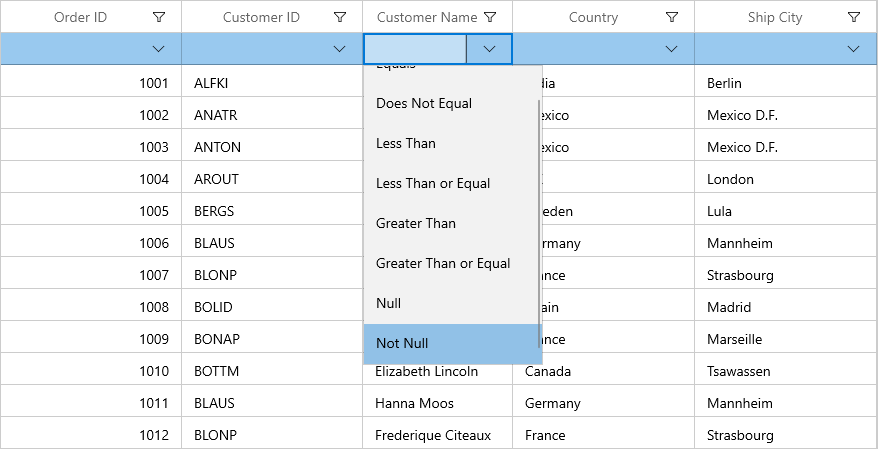
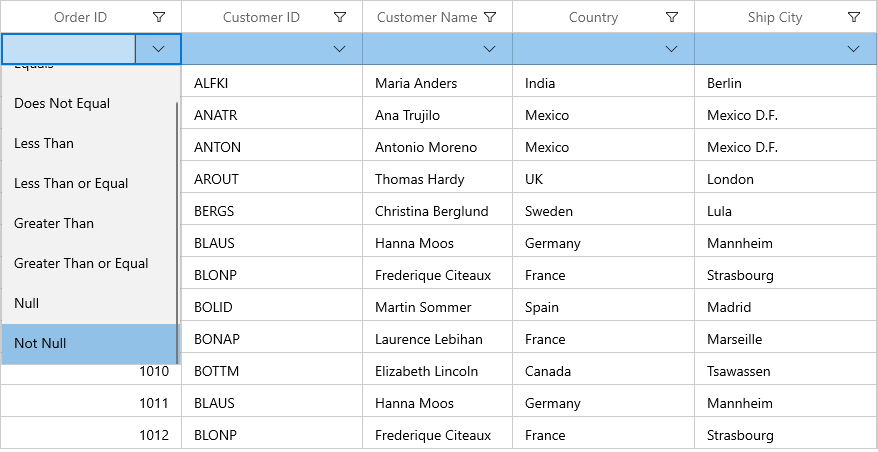
addressed the review concerns

diff --git a/winui/DataGrid/FilterRow.md b/winui/DataGrid/FilterRow.md
@@ -51,17 +51,6 @@ bool isFilterRowIndex = this.sfDataGrid.IsFilterRowIndex(1);
 ## Built-in Editors
 
 By default, FilterRow loads the editors based on underlying property type to filter the data easily. You can change the default editors by using [GridColumn.FilterRowEditorType](https://help.syncfusion.com/cr/winui/Syncfusion.UI.Xaml.DataGrid.GridColumn.html#Syncfusion_UI_Xaml_DataGrid_GridColumn_FilterRowEditorType) property.
-{% tabs %}
-{% highlight xaml %}
-<syncfusion:GridTextColumn MappingName="CustomerName"
-                           FilterRowEditorType="Numeric"/>
-{% endhighlight %}
-{% highlight c# %}
-this.sfDataGrid.Columns[2].FilterRowEditorType = "Numeric";
-{% endhighlight %}
-{% endtabs %}
-
-![WinUI DataGrid filter row cell with multi select combobox](FilterRow_images/FilterRow_img2.png)
 
 Below are the built-in FilterRow editor types supported in SfDataGrid. 
 <table>
@@ -228,7 +217,7 @@ this.sfDataGrid.Columns[0].FilterRowCondition = FilterRowCondition.LessThanOrEqu
 ## Filtering null values
 
 You can enable or disable filtering of null values by setting [GridColumn.AllowBlankFilters](https://help.syncfusion.com/cr/winui/Syncfusion.UI.Xaml.DataGrid.GridColumn.html#Syncfusion_UI_Xaml_DataGrid_GridColumn_AllowBlankFilters) property. The default value is `true`.
-When null value filtering is enabled, the filter options loaded with two additional options (“Null” and “Not Null”) to filter the null values. ComboBox and MultiSelectComboBox editors, loads with “Blanks” item in drop down to filter the null values. 
+When null value filtering is enabled, the filter options loaded with two additional options (“Null” and “Not Null”) to filter the null values.
 
 {% tabs %}
 {% highlight xaml %}
@@ -241,20 +230,20 @@ this.sfDataGrid.Columns[0].AllowBlankFilters = false;
 {% endhighlight %}
 {% endtabs %}
 
-![WinUI DataGrid filter row handles null value](FilterRow_images/FilterRow_img5.png)
+![WinUI DataGrid loads numeric in filter row cell](FilterRow_images/FilterRow_img5.png)
 
 {% tabs %}
 {% highlight xaml %}
-<syncfusion:GridTextColumn MappingName="CustomerName"
+<syncfusion:GridTextColumn MappingName="OrderID"
                            AllowBlankFilters="True"
                            FilterRowEditorType="Numeric"/>
 {% endhighlight %}
 {% highlight c# %}
-this.dataGrid.Columns[2].AllowBlankFilters = true;
+this.dataGrid.Columns[0].AllowBlankFilters = true;
 {% endhighlight %}
 {% endtabs %}
 
-![WinUI DataGrid loads numeric in filter row cell](FilterRow_images/FilterRow_img6.png)
+![WinUI DataGrid filter row handles null value](FilterRow_images/FilterRow_img6.png)
 
 ## Instant Filtering
 
